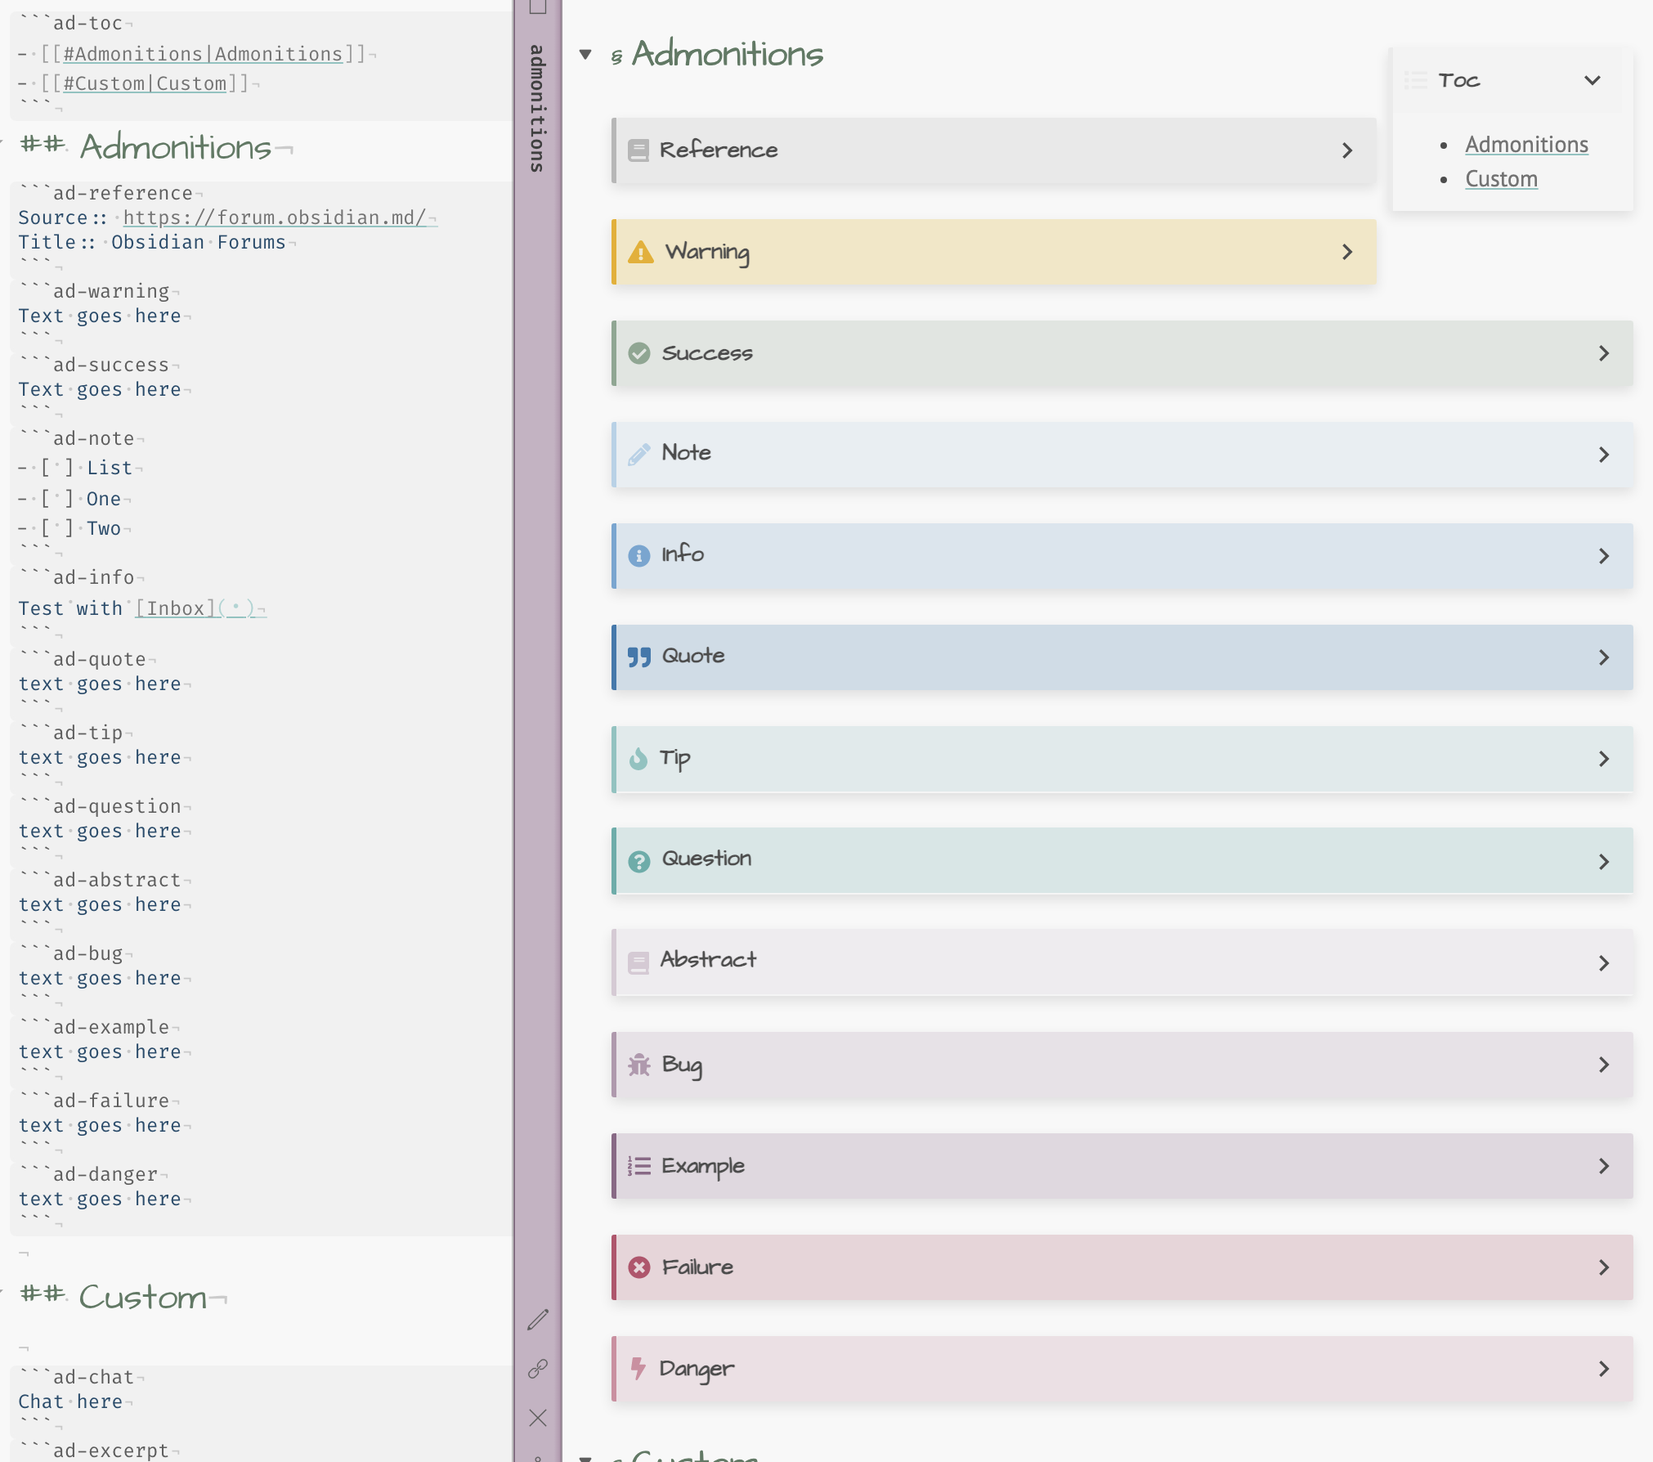
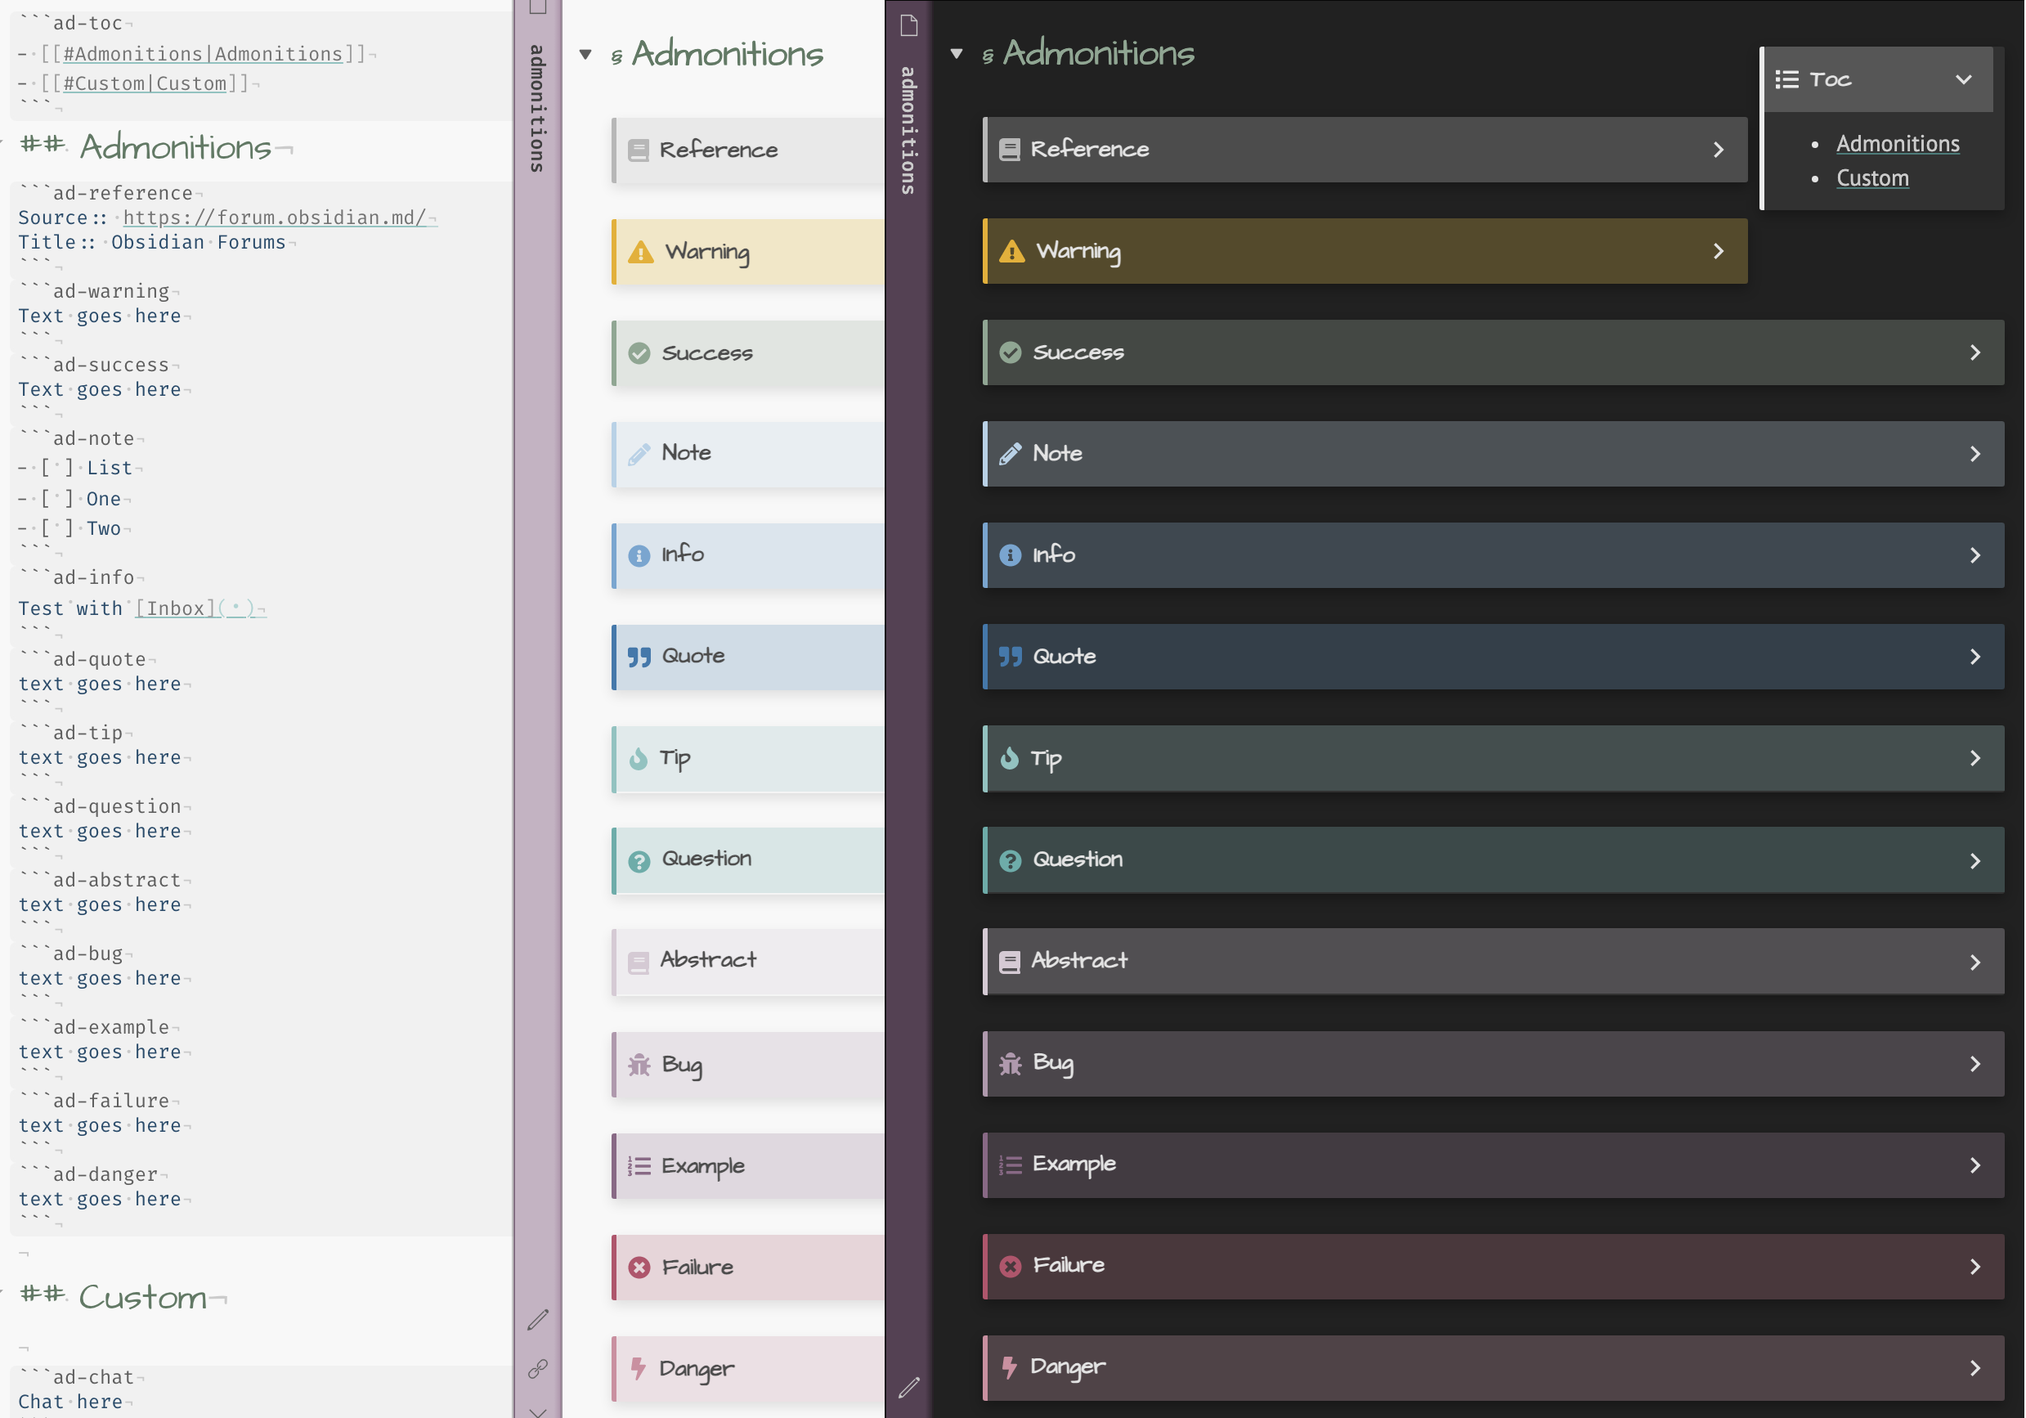
Use darker colors for view header/title

diff --git a/obsidian.css b/obsidian.css
@@ -119,7 +119,7 @@ settings:
   --background-primary-alt: var(--gray-dark-6);
   --background-secondary: var(--gray-dark-7);
   --background-secondary-alt: var(--gray-dark-8);
-  --background-modifier-border: var(--gray-dark-7);
+  --background-modifier-border: var(--gray-dark-8);
   --background-modifier-form-field: rgba(0, 0, 0, 0.3);
   --background-modifier-form-field-highlighted: rgba(0, 0, 0, 0.22);
   --background-modifier-box-shadow: rgba(0, 0, 0, 0.3);
@@ -197,14 +197,14 @@ settings:
 
 .theme-dark {
   --side-dock-text-on-accent: var(--text-on-accent);
-  --side-dock-text-on-accent-hover: var(--purple-3);
+  --side-dock-text-on-accent-hover: var(--yellow-1);
   --side-dock-accent: var(--purple-5);
   --side-dock-accent-hover: var(--green-4);
 }
 
 .theme-light {
   --side-dock-text-on-accent: var(--gray-dark-4);
-  --side-dock-text-on-accent-hover: var(--purple-5);
+  --side-dock-text-on-accent-hover: var(--yellow-4);
   --side-dock-accent: var(--purple-0);
   --side-dock-accent-hover: var(--green-1);
 }
@@ -431,23 +431,26 @@ body:not(.is-grabbing) .nav-folder-title:hover,
 :root {
   --leaf-header-width: 30px;
   --desktop-header-font-size: 12px;
+  --active-leaf-action-hover: var(--yellow-1);
 }
 
 .theme-light {
-  --active-leaf-action-hover: var(--purple-0);
-  --active-leaf-bg: linear-gradient(to top, var(--purple-4), var(--purple-3) 2%, var(--purple-2) 15%, var(--purple-2));
-  --inactive-leaf-bg: linear-gradient(to top, var(--gray), var(--gray-light-1) 2%, var(--gray-light-2) 15%, var(--gray-light-2));
-  --sharp-border: 1px solid rgba(0, 0, 0, .2);
-  --rotated-active-leaf-bg: linear-gradient(to left, var(--purple-4), var(--purple-3) 2%, var(--purple-2) 15%, var(--purple-2));
-  --rotated-inactive-leaf-bg: linear-gradient(to left, var(--gray), var(--gray-light-1) 2%, var(--gray-light-2) 15%, var(--gray-light-2));
+  --leaf-fg: var(--gray-light-4);
+  --sharp-border: 1px solid rgba(0, 0, 0, .1);
+  --resize-handle-bg: var(--background-secondary-alt);
+  --active-leaf-bg: linear-gradient(to top, var(--purple-5), var(--purple-4) 2%, var(--purple-3) 15%, var(--purple-3));
+  --rotated-active-leaf-bg: linear-gradient(to left, var(--purple-5), var(--purple-4) 2%, var(--purple-3) 15%, var(--purple-3));
+  --inactive-leaf-bg: linear-gradient(to top, var(--gray-dark-3), var(--gray-dark-2) 2%, var(--gray-dark-1) 15%, var(--gray-dark-1));
+  --rotated-inactive-leaf-bg: linear-gradient(to left, var(--gray-dark-3), var(--gray-dark-2) 2%, var(--gray-dark-1) 15%, var(--gray-dark-1));
 }
 
 .theme-dark {
-  --active-leaf-action-hover: var(--purple-0);
-  --active-leaf-bg: linear-gradient(to top, var(--gray-dark-7), var(--purple-6) 2%, var(--purple-5) 15%, var(--purple-5));
-  --inactive-leaf-bg: linear-gradient(to top, var(--gray-dark-7), var(--gray-dark-6) 2%, var(--gray-dark-5) 15%, var(--gray-dark-5));
+  --leaf-fg: var(--text-on-accent);
   --sharp-border: 1px solid rgba(0, 0, 0, 0.5);
+  --resize-handle-bg: rgba(0, 0, 0, 0.5);
+  --active-leaf-bg: linear-gradient(to top, var(--gray-dark-7), var(--purple-6) 2%, var(--purple-5) 15%, var(--purple-5));
   --rotated-active-leaf-bg: linear-gradient(to left, var(--gray-dark-7), var(--purple-6) 2%, var(--purple-5) 15%, var(--purple-5));
+  --inactive-leaf-bg: linear-gradient(to top, var(--gray-dark-7), var(--gray-dark-6) 2%, var(--gray-dark-5) 15%, var(--gray-dark-5));
   --rotated-inactive-leaf-bg: linear-gradient(to left, var(--gray-dark-7), var(--gray-dark-6) 2%, var(--gray-dark-5) 15%, var(--gray-dark-5));
 }
 
@@ -463,8 +466,14 @@ body:not(.is-grabbing) .nav-folder-title:hover,
   border-bottom: var(--sharp-border);
 }
 
+.view-action,
+.view-header-icon,
+.view-header-title,
+.workspace-leaf.mod-active .view-header-title {
+  color: var(--leaf-fg);
+}
+
 .view-header-title {
-  color: var(--text-on-accent);
   font-weight: 500;
   font-family: var(--font-monospace);
   overflow-x: hidden;
@@ -472,10 +481,7 @@ body:not(.is-grabbing) .nav-folder-title:hover,
   text-overflow: ellipsis;
 }
 
-.workspace-leaf.mod-active .view-header-title {
-  color: var(--text-on-accent);
-}
-
+.view-header-icon:hover,
 .view-action:hover {
   color: var(--active-leaf-action-hover);
 }
@@ -484,6 +490,10 @@ body:not(.is-grabbing) .nav-folder-title:hover,
 .workspace-leaf.mod-active .view-header-title-container:after,
 .workspace-split.mod-root > .workspace-leaf:first-of-type:last-of-type.mod-active .view-header-title-container:after {
   background: none;
+}
+
+.workspace-leaf-resize-handle {
+  background-color: var(--resize-handle-bg);
 }
 
 .workspace-leaf-resize-handle:hover {
@@ -517,10 +527,10 @@ body:not(.is-mobile) .workspace-split.mod-horizontal.mod-right-split {
   min-width: 200px;
 }
 body:not(.is-mobile) .workspace-split.mod-horizontal.mod-left-split {
-  border-right: var(--sharp-border);
+  border-right: none;
 }
 body:not(.is-mobile) .workspace-split.mod-horizontal.mod-right-split {
-  border-left: var(--sharp-border);
+  border-left: none;
 }
 body:not(.is-mobile) .workspace-tabs + .workspace-tabs {
   border-top: 1px solid var(--background-secondary-alt);
@@ -568,24 +578,18 @@ body:not(.is-mobile) .view-action svg {
 }
 
 body.plugin-sliding-panes .workspace > .mod-root > .workspace-leaf,
-body.plugin-sliding-panes-stacking .workspace > .mod-root > .workspace-leaf,
 body.plugin-sliding-panes-rotate-header .workspace > .mod-root > .workspace-leaf {
   box-shadow: none !important;
-  border-left: var(--sharp-border);
 }
 body.plugin-sliding-panes .workspace > .mod-root > .workspace-leaf > .workspace-leaf-content > .view-header .view-header-title-container:before,
 body.plugin-sliding-panes .workspace > .mod-root > .workspace-leaf > .workspace-leaf-content > .view-header .view-header-title-container:after,
-body.plugin-sliding-panes-stacking .workspace > .mod-root > .workspace-leaf > .workspace-leaf-content > .view-header .view-header-title-container:before,
-body.plugin-sliding-panes-stacking .workspace > .mod-root > .workspace-leaf > .workspace-leaf-content > .view-header .view-header-title-container:after,
 body.plugin-sliding-panes-rotate-header .workspace > .mod-root > .workspace-leaf > .workspace-leaf-content > .view-header .view-header-title-container:before,
 body.plugin-sliding-panes-rotate-header .workspace > .mod-root > .workspace-leaf > .workspace-leaf-content > .view-header .view-header-title-container:after {
   background: none !important;
 }
-body.plugin-sliding-panes .workspace > .mod-root > .workspace-leaf > .workspace-leaf-content > .view-header .view-header,
-body.plugin-sliding-panes-stacking .workspace > .mod-root > .workspace-leaf > .workspace-leaf-content > .view-header .view-header,
-body.plugin-sliding-panes-rotate-header .workspace > .mod-root > .workspace-leaf > .workspace-leaf-content > .view-header .view-header {
-  border-left: none;
-  border-right: none;
+
+body.plugin-sliding-panes-stacking .workspace > .mod-root > .workspace-leaf:not(:first-of-type) {
+  border-left: var(--sharp-border);
 }
 
 body.plugin-sliding-panes-rotate-header .view-header-title {
@@ -600,8 +604,8 @@ body.plugin-sliding-panes-rotate-header .horizontal-main-container > .workspace 
 body.plugin-sliding-panes-rotate-header .horizontal-main-container > .workspace > .mod-root > .workspace-leaf > .workspace-leaf-content > .view-header,
 body.plugin-sliding-panes-rotate-header .horizontal-main-container > .workspace .view-header {
   background: var(--rotated-inactive-leaf-bg);
-  border-right: var(--sharp-border);
-  border-left: var(--sharp-border);
+  border-right: none;
+  border-left: none;
   width: var(--leaf-header-width);
 }
 body.plugin-sliding-panes-rotate-header .horizontal-main-container > .workspace > .mod-root > .workspace-leaf > .workspace-leaf-content > .view-header .view-header-icon svg,
@@ -611,11 +615,10 @@ body.plugin-sliding-panes-rotate-header .horizontal-main-container > .workspace 
   width: 14px;
   height: auto;
 }
-body.plugin-sliding-panes-rotate-header .horizontal-main-container > .workspace .workspace-leaf.mod-active .view-header,
 body.plugin-sliding-panes-rotate-header .horizontal-main-container > .workspace > .mod-root > .workspace-leaf.mod-active > .workspace-leaf-content > .view-header {
   background: var(--rotated-active-leaf-bg);
-  border-right: var(--sharp-border);
-  border-left: var(--sharp-border);
+  border-right: none;
+  border-left: none;
 }
 
 .theme-light {
@@ -913,6 +916,10 @@ blockquote h1 {
   --link-underline: var(--teal-4);
   --link-hover: var(--teal-3);
   --link-hidden: var(--teal-5);
+}
+.theme-dark .search-result-file-matched-text {
+  background-color: var(--background-secondary);
+  color: var(--text-highlight-bg);
 }
 
 .theme-light {

diff --git a/src/03b-workspace-view.scss b/src/03b-workspace-view.scss
@@ -1,21 +1,24 @@
 :root {
   --leaf-header-width: 30px;
   --desktop-header-font-size: 12px;
+  --active-leaf-action-hover: var(--yellow-1);
 }
 .theme-light {
-  --active-leaf-action-hover: var(--purple-0);
-  --active-leaf-bg: linear-gradient(to top, var(--purple-4), var(--purple-3) 2%, var(--purple-2) 15%, var(--purple-2));
-  --inactive-leaf-bg: linear-gradient(to top, var(--gray), var(--gray-light-1) 2%, var(--gray-light-2) 15%, var(--gray-light-2));
-  --sharp-border: 1px solid rgba(0, 0, 0, .2);
-  --rotated-active-leaf-bg: linear-gradient(to left, var(--purple-4), var(--purple-3) 2%, var(--purple-2) 15%, var(--purple-2));
-  --rotated-inactive-leaf-bg: linear-gradient(to left, var(--gray), var(--gray-light-1) 2%, var(--gray-light-2) 15%, var(--gray-light-2));
+  --leaf-fg: var(--gray-light-4);
+  --sharp-border: 1px solid rgba(0, 0, 0, .1);
+  --resize-handle-bg: var(--background-secondary-alt);
+  --active-leaf-bg: linear-gradient(to top, var(--purple-5), var(--purple-4) 2%, var(--purple-3) 15%, var(--purple-3));
+  --rotated-active-leaf-bg: linear-gradient(to left, var(--purple-5), var(--purple-4) 2%, var(--purple-3) 15%, var(--purple-3));
+  --inactive-leaf-bg: linear-gradient(to top, var(--gray-dark-3), var(--gray-dark-2) 2%, var(--gray-dark-1) 15%, var(--gray-dark-1));
+  --rotated-inactive-leaf-bg: linear-gradient(to left, var(--gray-dark-3), var(--gray-dark-2) 2%, var(--gray-dark-1) 15%, var(--gray-dark-1));
 }
 .theme-dark {
-  --active-leaf-action-hover: var(--purple-0);
-  --active-leaf-bg: linear-gradient(to top, var(--gray-dark-7), var(--purple-6) 2%, var(--purple-5) 15%, var(--purple-5));
-  --inactive-leaf-bg: linear-gradient(to top, var(--gray-dark-7), var(--gray-dark-6) 2%, var(--gray-dark-5) 15%, var(--gray-dark-5));
+  --leaf-fg: var(--text-on-accent);
   --sharp-border: 1px solid rgba(0, 0, 0, 0.5);
+  --resize-handle-bg: rgba(0, 0, 0, 0.5);
+  --active-leaf-bg: linear-gradient(to top, var(--gray-dark-7), var(--purple-6) 2%, var(--purple-5) 15%, var(--purple-5));
   --rotated-active-leaf-bg: linear-gradient(to left, var(--gray-dark-7), var(--purple-6) 2%, var(--purple-5) 15%, var(--purple-5));
+  --inactive-leaf-bg: linear-gradient(to top, var(--gray-dark-7), var(--gray-dark-6) 2%, var(--gray-dark-5) 15%, var(--gray-dark-5));
   --rotated-inactive-leaf-bg: linear-gradient(to left, var(--gray-dark-7), var(--gray-dark-6) 2%, var(--gray-dark-5) 15%, var(--gray-dark-5));
 }
 // --------------------------------------------------
@@ -32,17 +35,20 @@
   background: var(--active-leaf-bg) ;
   border-bottom: var(--sharp-border);
 }
+.view-action,
+.view-header-icon,
+.view-header-title,
+.workspace-leaf.mod-active .view-header-title {
+  color: var(--leaf-fg);
+}
 .view-header-title {
-  color: var(--text-on-accent);
   font-weight: 500;
   font-family: var(--font-monospace);
   overflow-x: hidden;
   overflow-y: hidden;
   text-overflow: ellipsis;
 }
-.workspace-leaf.mod-active .view-header-title {
-  color: var(--text-on-accent);
-}
+.view-header-icon:hover,
 .view-action:hover {
   color: var(--active-leaf-action-hover);
 }
@@ -52,6 +58,9 @@
   background: none;
 }
 // ---- Thinner resize handle --------------
+.workspace-leaf-resize-handle {
+  background-color: var(--resize-handle-bg);
+}
 .workspace-leaf-resize-handle:hover {
   background-color: var(--interactive-accent);
 }
@@ -88,10 +97,10 @@ body:not(.is-mobile) {
     min-width: 200px;
   }
   .workspace-split.mod-horizontal.mod-left-split {
-    border-right: var(--sharp-border);
+    border-right: none;
   }
   .workspace-split.mod-horizontal.mod-right-split {
-    border-left: var(--sharp-border);
+    border-left: none;
   }
   //A bit of separation for multiple groups in sidebars
   .workspace-tabs + .workspace-tabs {
@@ -145,21 +154,18 @@ body:not(.is-mobile) {
 //---------------------------------------
 // Hide the gradient of the title pane
 body.plugin-sliding-panes .workspace > .mod-root > .workspace-leaf,
-body.plugin-sliding-panes-stacking .workspace > .mod-root > .workspace-leaf,
 body.plugin-sliding-panes-rotate-header .workspace > .mod-root > .workspace-leaf {
   box-shadow: none !important;
-  border-left: var(--sharp-border);
 
   > .workspace-leaf-content > .view-header {
     .view-header-title-container:before,
     .view-header-title-container:after {
       background: none !important;
     }
-    .view-header {
-      border-left: none;
-      border-right: none;
-    }
   }
+}
+body.plugin-sliding-panes-stacking .workspace > .mod-root > .workspace-leaf:not(:first-of-type) {
+  border-left: var(--sharp-border);
 }
 body.plugin-sliding-panes-rotate-header {
   .view-header-title {
@@ -172,12 +178,11 @@ body.plugin-sliding-panes-rotate-header {
     .mod-root > .workspace-leaf > .workspace-leaf-content {
       padding-left: var(--leaf-header-width);
     }
-
     > .mod-root > .workspace-leaf > .workspace-leaf-content > .view-header,
     .view-header {
       background: var(--rotated-inactive-leaf-bg);
-      border-right: var(--sharp-border);
-      border-left: var(--sharp-border);
+      border-right: none;
+      border-left: none;
       width: var(--leaf-header-width);
 
       .view-header-icon svg,
@@ -187,11 +192,10 @@ body.plugin-sliding-panes-rotate-header {
       }
     }
 
-    .workspace-leaf.mod-active .view-header,
     > .mod-root > .workspace-leaf.mod-active > .workspace-leaf-content > .view-header {
       background: var(--rotated-active-leaf-bg) ;
-      border-right: var(--sharp-border);
-      border-left: var(--sharp-border);
+      border-right: none;
+      border-left: none;
     }
   }
 }

diff --git a/src/03-core-theme-dark.scss b/src/03-core-theme-dark.scss
@@ -6,7 +6,7 @@
     --background-secondary: var(--gray-dark-7);         //  Sidebar/modal background, active/hover tab nav items, tab content, drag ghost, menu item hover
     --background-secondary-alt: var(--gray-dark-8);     //  muted button, checkbox container, kbd, modal border, modal button, tab nav items, vertical tab header, clickable tree item, card, drag ghost border
 
-    --background-modifier-border: var(--gray-dark-7);   //  Border outline of quotes, tables, line breaks
+    --background-modifier-border: var(--gray-dark-8);   //  Border outline of quotes, tables, line breaks
     --background-modifier-form-field: rgba(0, 0, 0, 0.3);
     --background-modifier-form-field-highlighted: rgba(0, 0, 0, 0.22); // Search Bar Active Highlight
     --background-modifier-box-shadow: rgba(0, 0, 0, 0.3);

diff --git a/src/03a-workspace-layout.scss b/src/03a-workspace-layout.scss
@@ -1,13 +1,13 @@
 // side-dock flair
 .theme-dark {
   --side-dock-text-on-accent: var(--text-on-accent);
-  --side-dock-text-on-accent-hover: var(--purple-3);
+  --side-dock-text-on-accent-hover: var(--yellow-1);
   --side-dock-accent: var(--purple-5);
   --side-dock-accent-hover: var(--green-4);
 }
 .theme-light {
   --side-dock-text-on-accent: var(--gray-dark-4);
-  --side-dock-text-on-accent-hover: var(--purple-5);
+  --side-dock-text-on-accent-hover: var(--yellow-4);
   --side-dock-accent: var(--purple-0);
   --side-dock-accent-hover: var(--green-1);
 }

diff --git a/src/05-text-links.scss b/src/05-text-links.scss
@@ -7,6 +7,11 @@
   --link-underline: var(--teal-4);
   --link-hover: var(--teal-3);
   --link-hidden: var(--teal-5);
+
+  .search-result-file-matched-text {
+    background-color: var(--background-secondary);
+    color: var(--text-highlight-bg);
+  }
 }
 .theme-light {
   --strong-em: var(--yellow-3);

diff --git a/CHANGELOG.md b/CHANGELOG.md
@@ -1,0 +1,24 @@
+### Changelog
+
+All notable changes to this project will be documented in this file. Dates are displayed in UTC.
+
+Generated by [`auto-changelog`](https://github.com/CookPete/auto-changelog).
+
+#### [0.1.2](https://github.com/ebullient/obsidian-theme-ebullientworks/compare/0.1.1...0.1.2)
+
+- Use darker colors for view header/title [`352ec5b`](https://github.com/ebullient/obsidian-theme-ebullientworks/commit/352ec5b0d5b47eb0166d5b7cc73e85c496fb2864)
+
+#### [0.1.1](https://github.com/ebullient/obsidian-theme-ebullientworks/compare/0.1.0...0.1.1)
+
+> 1 November 2021
+
+- Admonition colors; Readme [`6712f03`](https://github.com/ebullient/obsidian-theme-ebullientworks/commit/6712f03552d6ec56c5da0beb6e95efd695b96894)
+- Custom fonts to stylesettings [`64da056`](https://github.com/ebullient/obsidian-theme-ebullientworks/commit/64da056ef12fd1f03579b98aa5daa6807e940e16)
+
+#### 0.1.0
+
+> 29 October 2021
+
+- raw pieces [`c8f329c`](https://github.com/ebullient/obsidian-theme-ebullientworks/commit/c8f329c2afd996f5ec503a16c95dda1a1ecdca43)
+- better yellow, modal, links [`8665de7`](https://github.com/ebullient/obsidian-theme-ebullientworks/commit/8665de79602a4a40236bd1ecbb7cc8d46bce695c)
+- lists, borders [`ec7e283`](https://github.com/ebullient/obsidian-theme-ebullientworks/commit/ec7e28338f2a6b6a9f02fcf0b34d1d2beab0bc54)

diff --git a/README.md b/README.md
@@ -34,7 +34,6 @@ This theme does support style settings. Settable attributes:
     - Text (default font for text)
     - Monospace 
 
-
 ## Admonitions
 
 As of version 6.5.1, you can disable the color picker for admonitions (globally or per-admonition) to have colors picked up from CSS styles instead. All of the default admonitions, in addition to two additional custom types, have been styled.
@@ -49,11 +48,9 @@ Those two custom types are:
     Styled to create a floating (hover:right) section for Table of Contents
     To use this style, create a `toc` admonition (I recommend you use the list icon, but take your pick).
     
-Here is what they all look like (unstyled edit mode on the left): 
+Here is what they look like (unstyled edit mode on the left): 
 
 ![](images/admonitions.png)
-
-
 
 ## Credits
 
